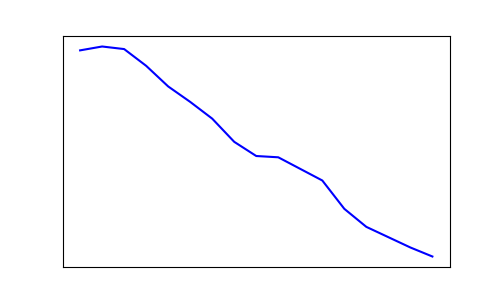
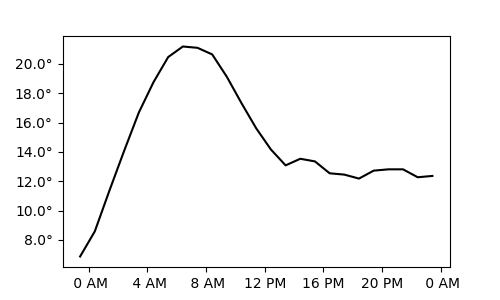
More changes

diff --git a/display.py b/display.py
@@ -1,4 +1,5 @@
 import sys
+from zoneinfo import ZoneInfo
 from PIL import Image, ImageDraw, ImageFont
 
 import logging
@@ -16,13 +17,14 @@ import requests_cache
 import pandas as pd
 from retry_requests import retry
 
-from datetime import datetime
+from datetime import datetime, timedelta, timezone
 
 import io
 import math
 import matplotlib.pyplot as plt
+import matplotlib.dates as mdates
 
-logging.basicConfig(level=logging.DEBUG)
+# logging.basicConfig(level=logging.DEBUG)
 
 def main():
 
@@ -80,13 +82,13 @@ def getWeather():
     url = "https://api.open-meteo.com/v1/forecast"
     params = {
         "latitude": 41.0894,
-        "longitude": 112.0647,
+        "longitude": 112.0647, 
         "hourly": ["temperature_2m", "rain", "weather_code"],
         "daily": ["weather_code", "precipitation_probability_max", "temperature_2m_max", "temperature_2m_min"],
         "temperature_unit": "fahrenheit",
         "wind_speed_unit": "mph",
         "precipitation_unit": "inch",
-        "timezone": "America/Denver"
+        # "timezone": "America/Denver"
     }
     responses = openmeteo.weather_api(url, params=params)
 
@@ -142,10 +144,10 @@ def getWeather():
     draw = ImageDraw.Draw(Himage)
 
 
-    graph = makeDailyGraph(hourly_dataframe)
-    w = 400
-    graph = graph.resize((w, int((w / 5) * 3)))
-    Himage.paste(graph, (400, 10), graph)
+    # graph = makeDailyGraph(hourly_dataframe)
+    # w = 400
+    # graph = graph.resize((w, int((w / 5) * 3)))
+    # Himage.paste(graph, (400, 10), graph)
 
 
     for index, row in daily_dataframe.iterrows():
@@ -265,19 +267,33 @@ def makeDailyGraph(data):
         
     #     pass
 
-    # print(data)
+    print(data)
 
-    today = datetime.today().date()
-    df_today = data[data['date'].dt.date == today]
+    # now = datetime.now(timezone.utc).astimezone(ZoneInfo("America/Denver"))
+    now = datetime.now(timezone.utc) + timedelta(hours=-8)
+    end = (now + timedelta(hours=24))
+    
+    data['date'] = pd.to_datetime(data['date'], utc=True)#.dt.tz_convert('America/Denver')
+    data = data[data['date'] < end]
 
     plt.figure(figsize=(5, 3))
-    plt.plot(df_today['date'], df_today['temperature_2m'], linestyle='-', color='b')
+    plt.plot(data['date'], data['temperature_2m'], linestyle='-', color='black')
     
     plt.xlabel('')
     plt.ylabel('')
     plt.title('')
-    plt.xticks([])
-    plt.yticks([])
+    
+
+
+    plt.gca().xaxis.set_major_formatter(mdates.DateFormatter('%k %p'))
+    plt.xticks(pd.date_range(now, end, freq='4H'))
+
+    def custom_formatter(x, pos):
+        return f'{x}°' 
+    
+    plt.gca().yaxis.set_major_formatter(custom_formatter)
+
+
     # for spine in plt.gca().spines.values():
     #     spine.set_visible(False)
 
